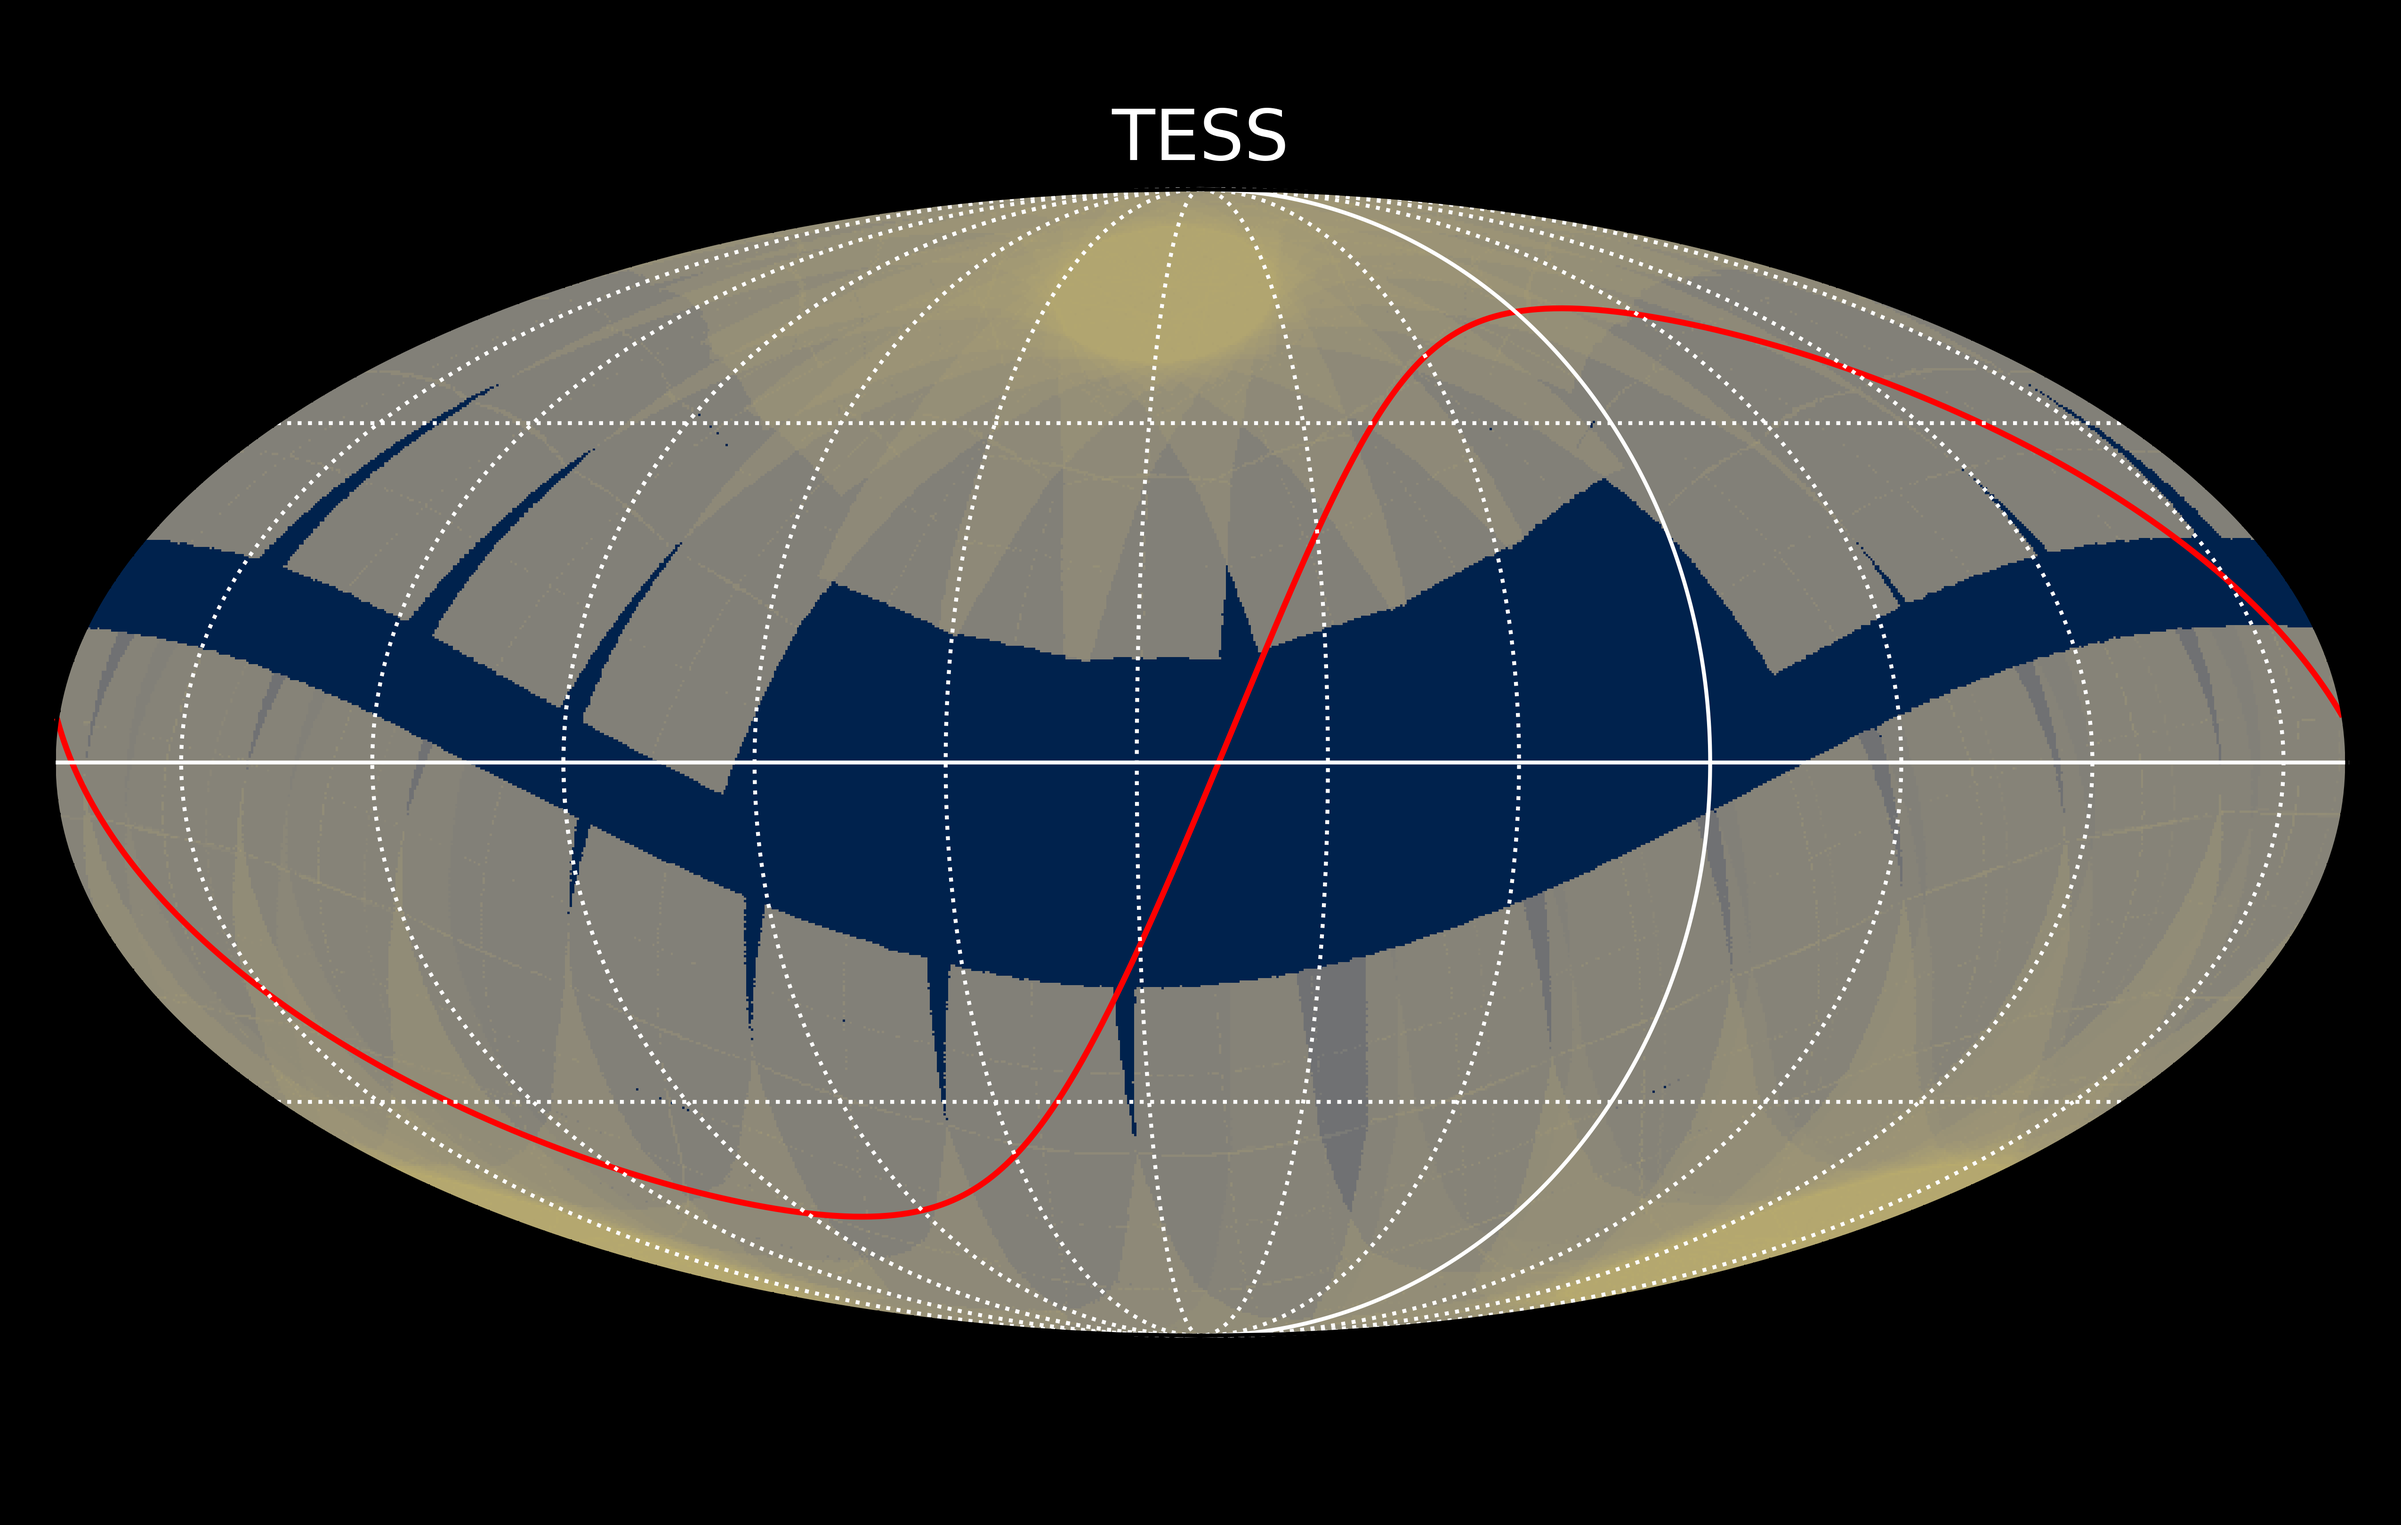
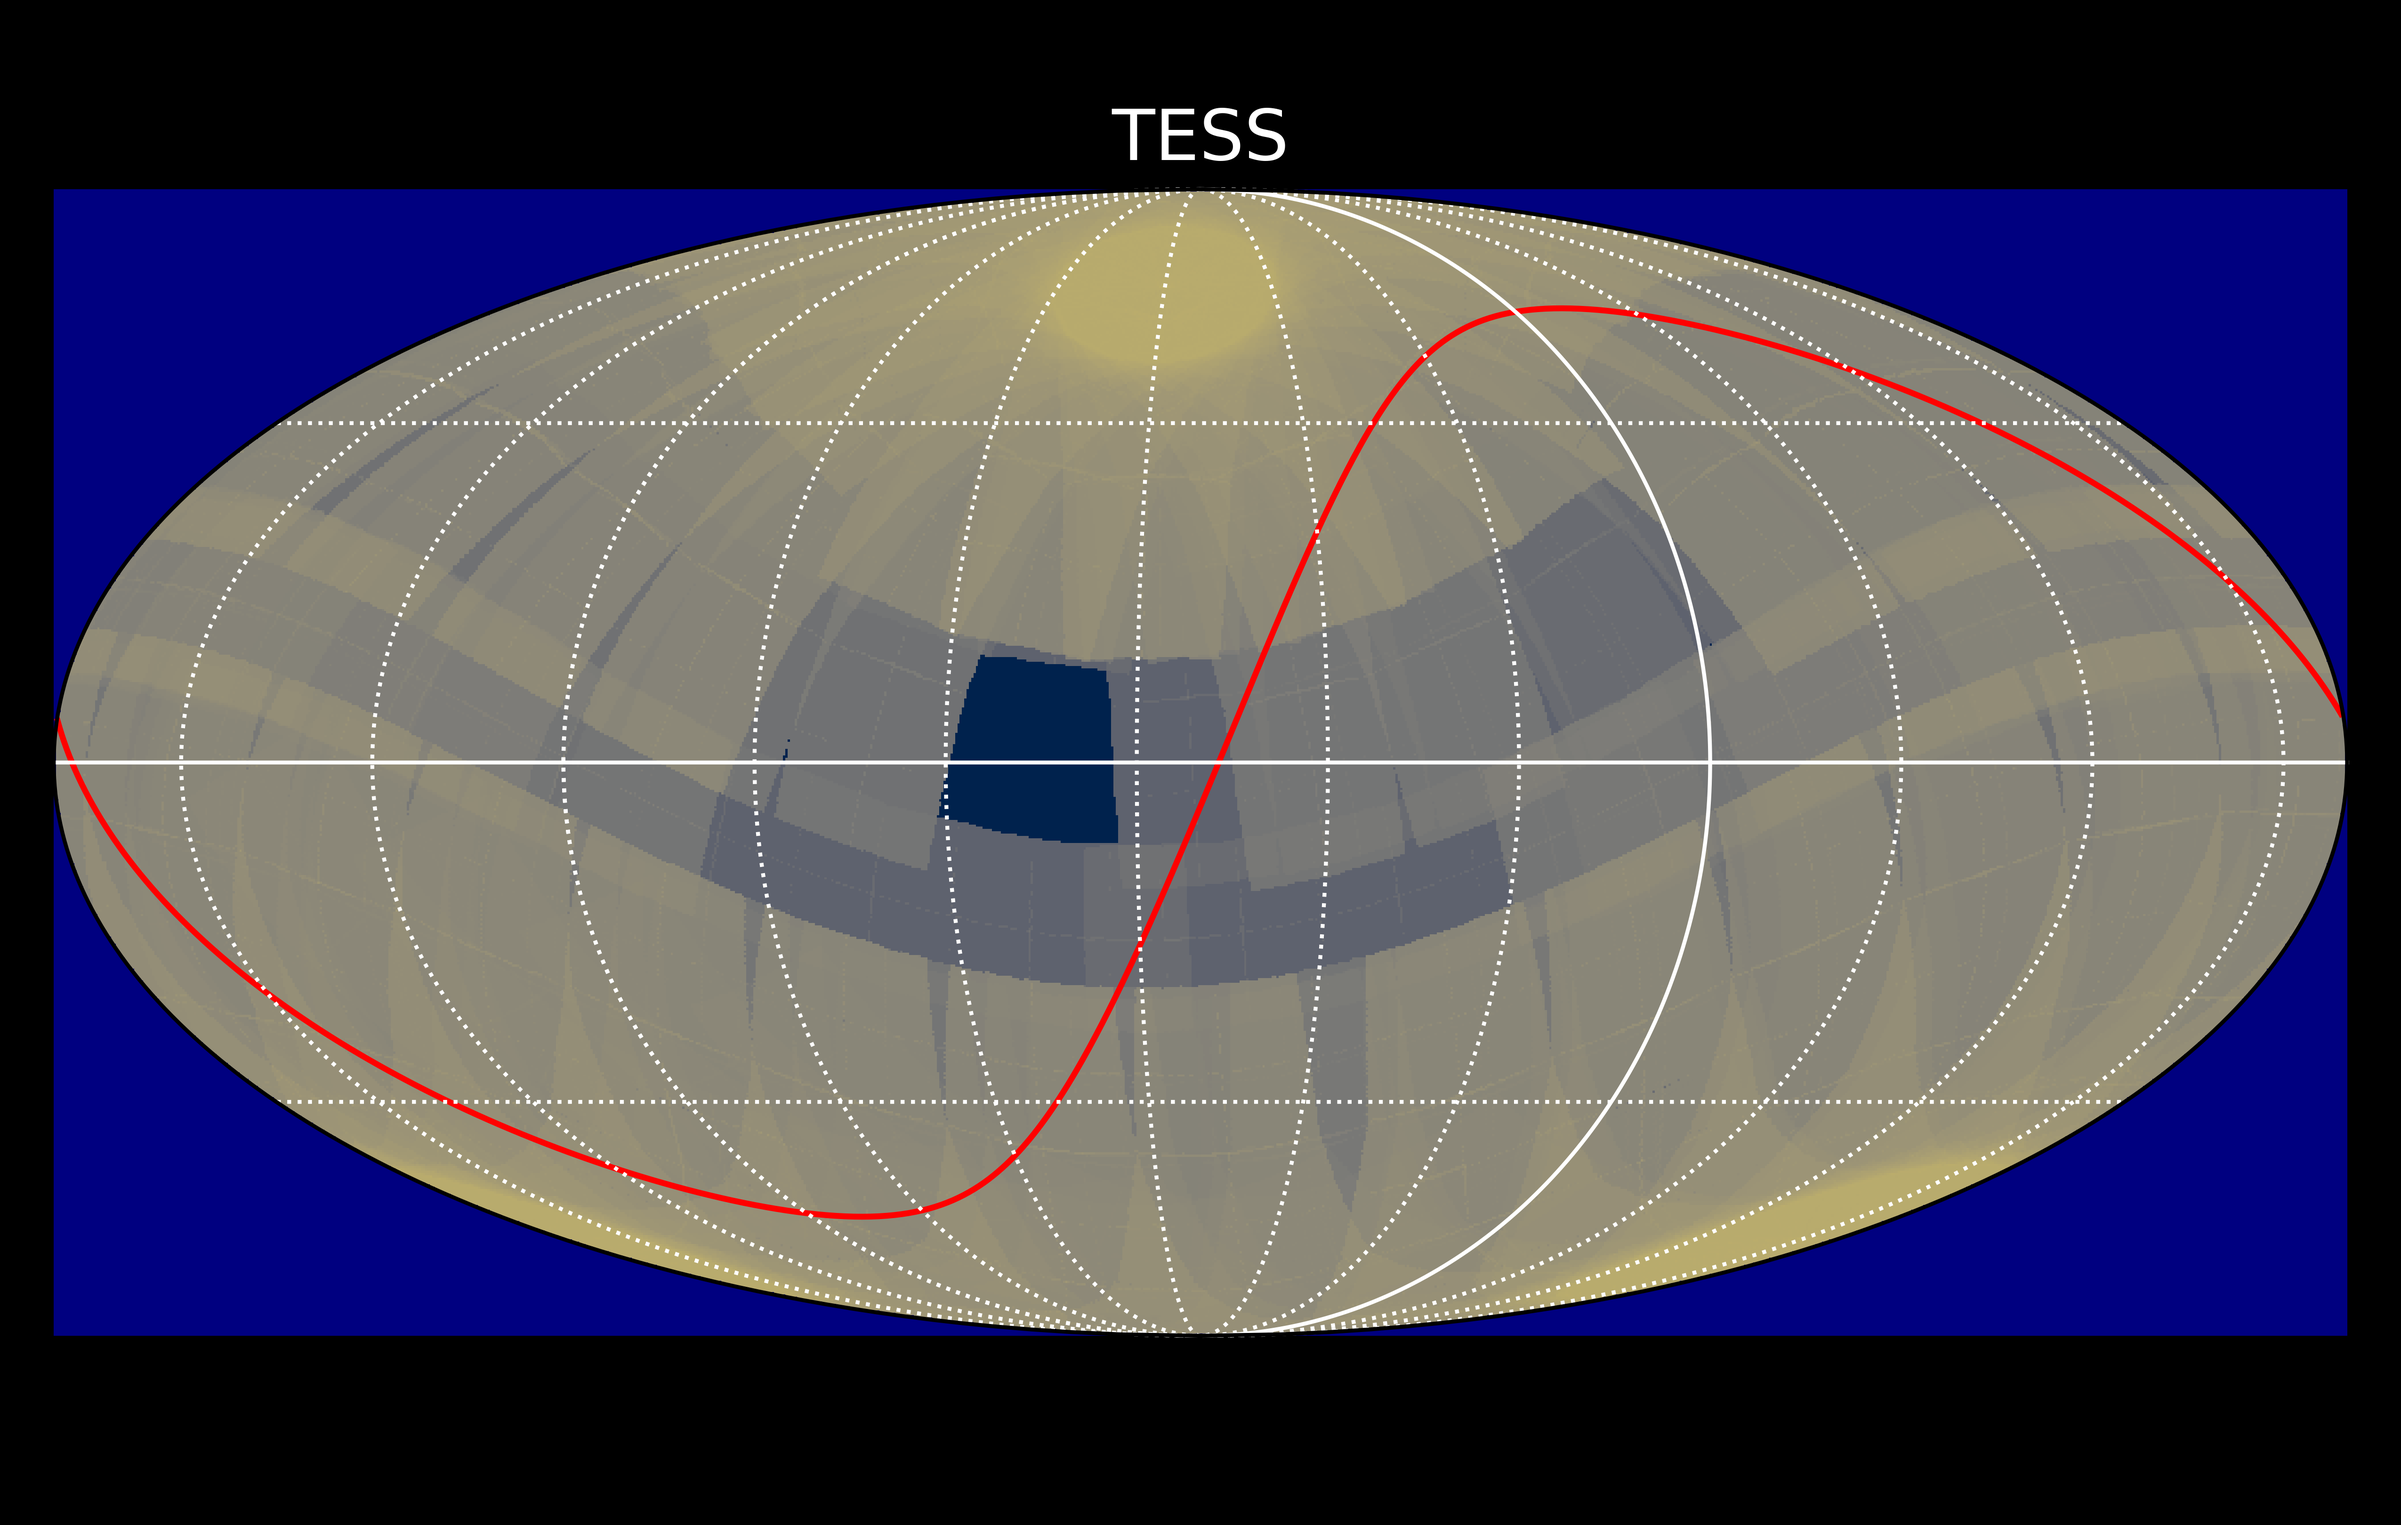
tess movie scripts

diff --git a/tess_movie.py b/tess_movie.py
@@ -12,17 +12,17 @@ import matplotlib.pyplot as plt
 plt.interactive(False)
 
 # GALEX
-movie_dir = 'movie/galex/'
-rootname = 'galex'
+movie_dir = 'movie/tess/'
+rootname = 'tess'
 DPI=100  # 300 is default
-HIGHLIGHTS = True  # flag for flashing new observations as they are added
+HIGHLIGHTS = False  # flag for flashing new observations as they are added
 GALACTIC_LINE = False  # flag for enabling red galactic line
 GALACTIC_GRID = True  # flag for enabling galactic grid
 SKYCOLOR = '#003B4D'  # MAST darkest turquoise
 
-df = pd.read_hdf('data/galex.h5', 'data')
-ptab = pd.read_hdf('data/galex.h5', 'ptab')
-base_map = hp.read_map('data/galex_map.fits')
+df = pd.read_hdf('data/tess.h5', 'data')
+ptab = pd.read_hdf('data/tess.h5', 'ptab')
+base_map = hp.read_map('data/tess_map.fits')
 
 # Min and Maximum time range
 tstep = 7.  # days

diff --git a/mast_plot.py b/mast_plot.py
@@ -112,7 +112,7 @@ def make_map(df, nside=256, exp_col="t_exptime", verbose=False):
 
             # Populate output lists
             try:
-                hp_map[ipix] = hp_map[ipix] + np.float(row[exp_col])  # adding up exposures for that healpix pixel
+                hp_map[ipix] = hp_map[ipix] + float(row[exp_col])  # adding up exposures for that healpix pixel
 
                 p_dict = {
                     "i": i,
